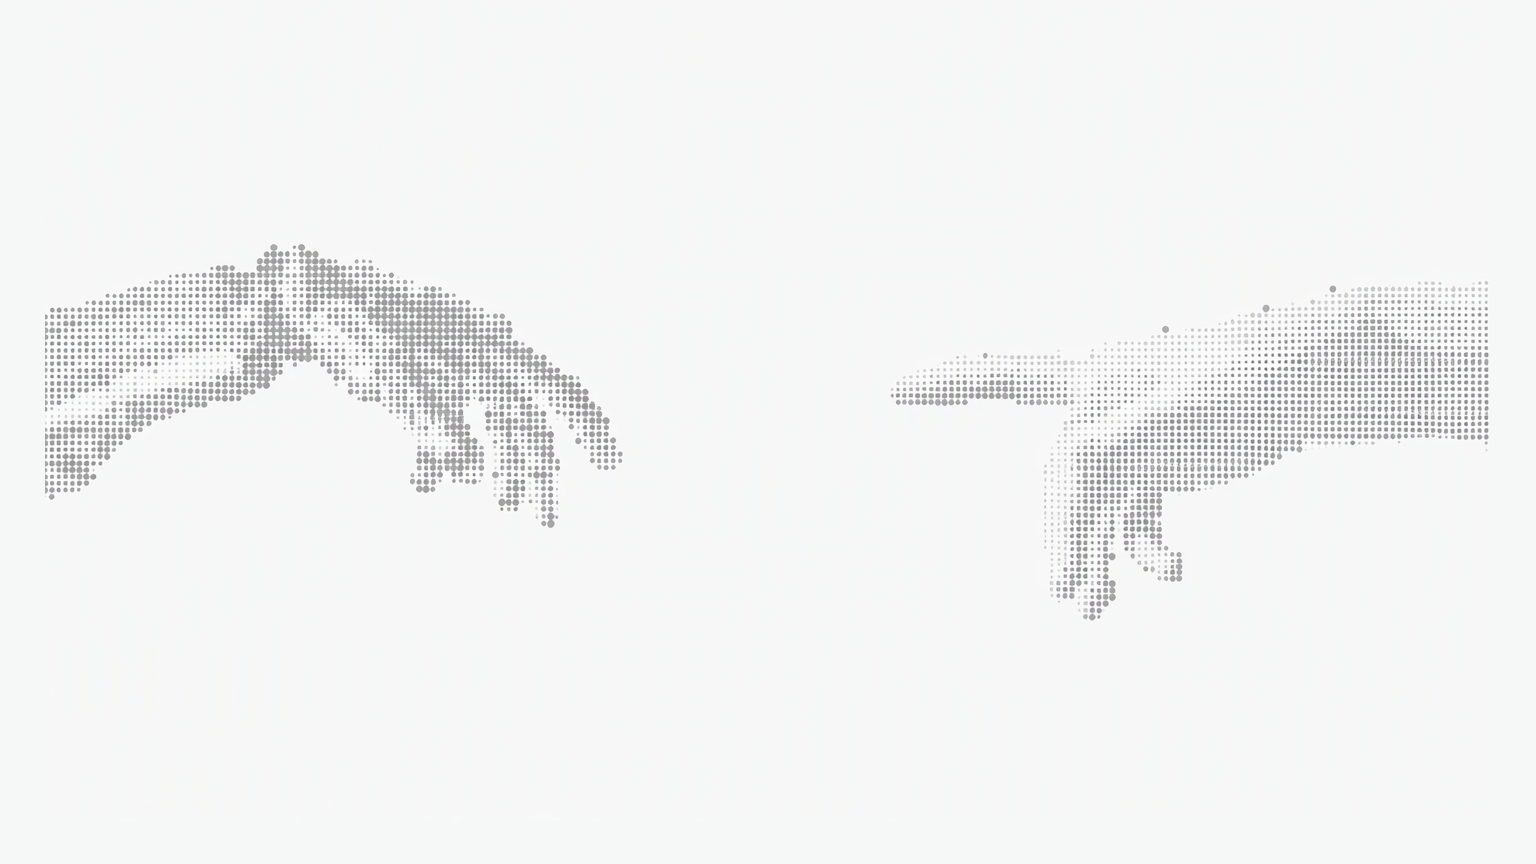
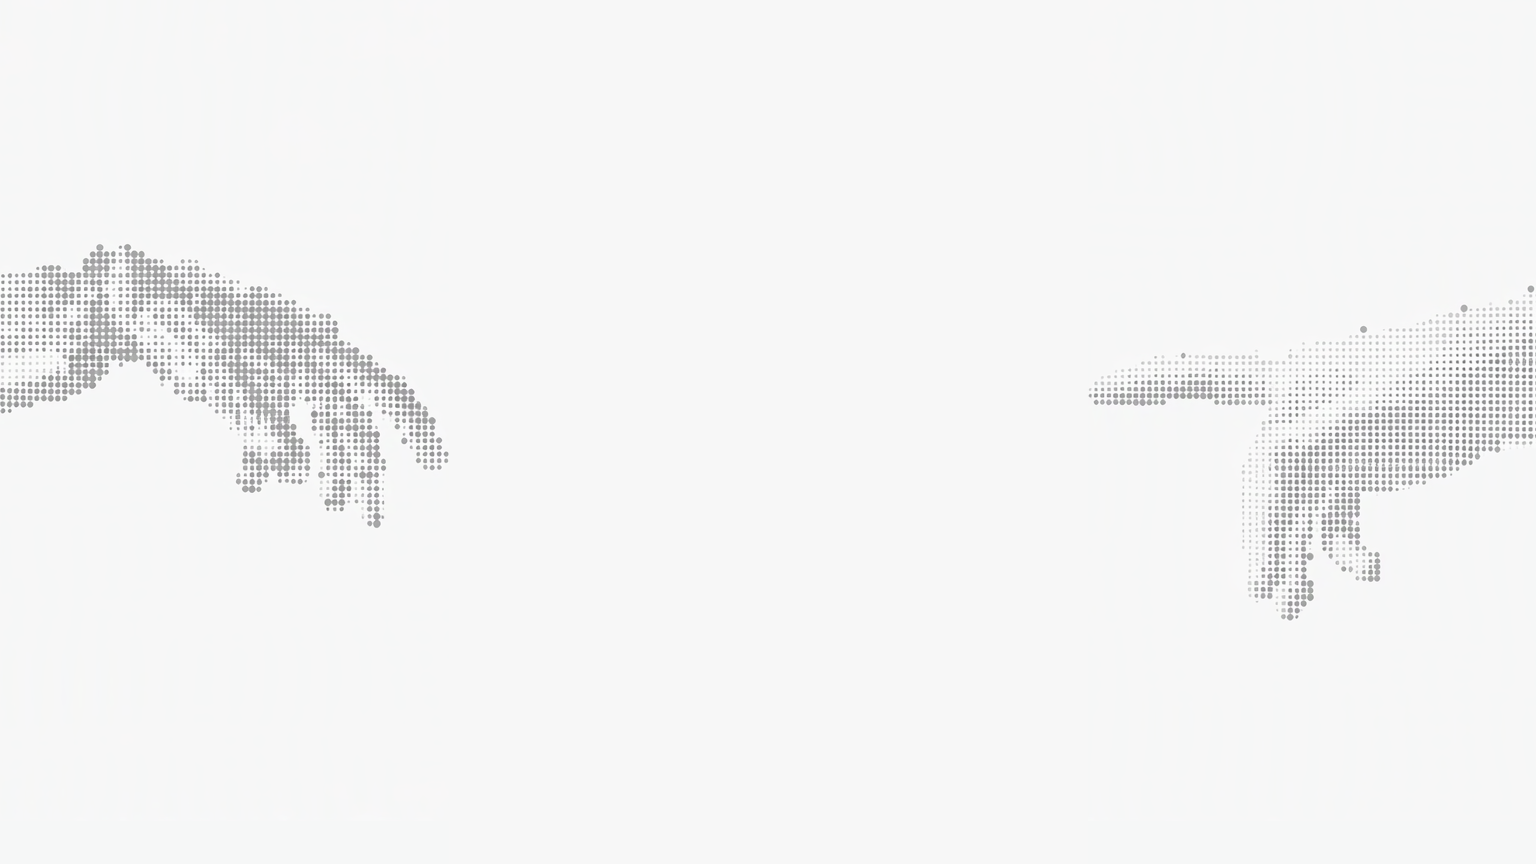
Open the hero artwork's corridor so the headline sits between the hands
The dotted hands met within ~17% of the canvas width, so the 570px headline ran over the fingertips on a 1280px viewport. Slide each hand outward (left 174px, right 198px) to a 41.6% corridor centred exactly on the canvas, then size the hero type to it: headline cap 3.25rem and supporting copy 460px. On phones the artwork is drawn at 200% auto so both hands stay visible around the copy.

Changed region(s): [[0.5625, 0.3125, 1.0, 0.7188], [0.0, 0.2812, 0.4062, 0.625]]

diff --git a/components/LandingHero.module.css b/components/LandingHero.module.css
@@ -129,7 +129,7 @@
 
 .headline {
   margin: 0;
-  font-size: clamp(1.75rem, 5.4vw, 3.75rem);
+  font-size: clamp(1.75rem, 4.1vw, 3.25rem);
   line-height: 1.12;
   font-weight: 500;
   letter-spacing: -0.04em;
@@ -138,7 +138,7 @@
 .headline span { display: block; }
 .headline span + span { color: #626873; }
 .supporting {
-  max-width: 540px;
+  max-width: 460px;
   margin: 18px auto 0;
   font-size: clamp(15px, 1.3vw, 17px);
   line-height: 1.75;
@@ -170,6 +170,7 @@
   .mobileMenu nav > a[aria-current='page'] { color: var(--primary); }
   .mobileMenu .cta { margin-top: 8px; }
   .hero { padding: 100px 20px; }
+  .map { background-size: 200% auto; }
   .supporting { max-width: 340px; margin-top: 22px; }
 }
 
